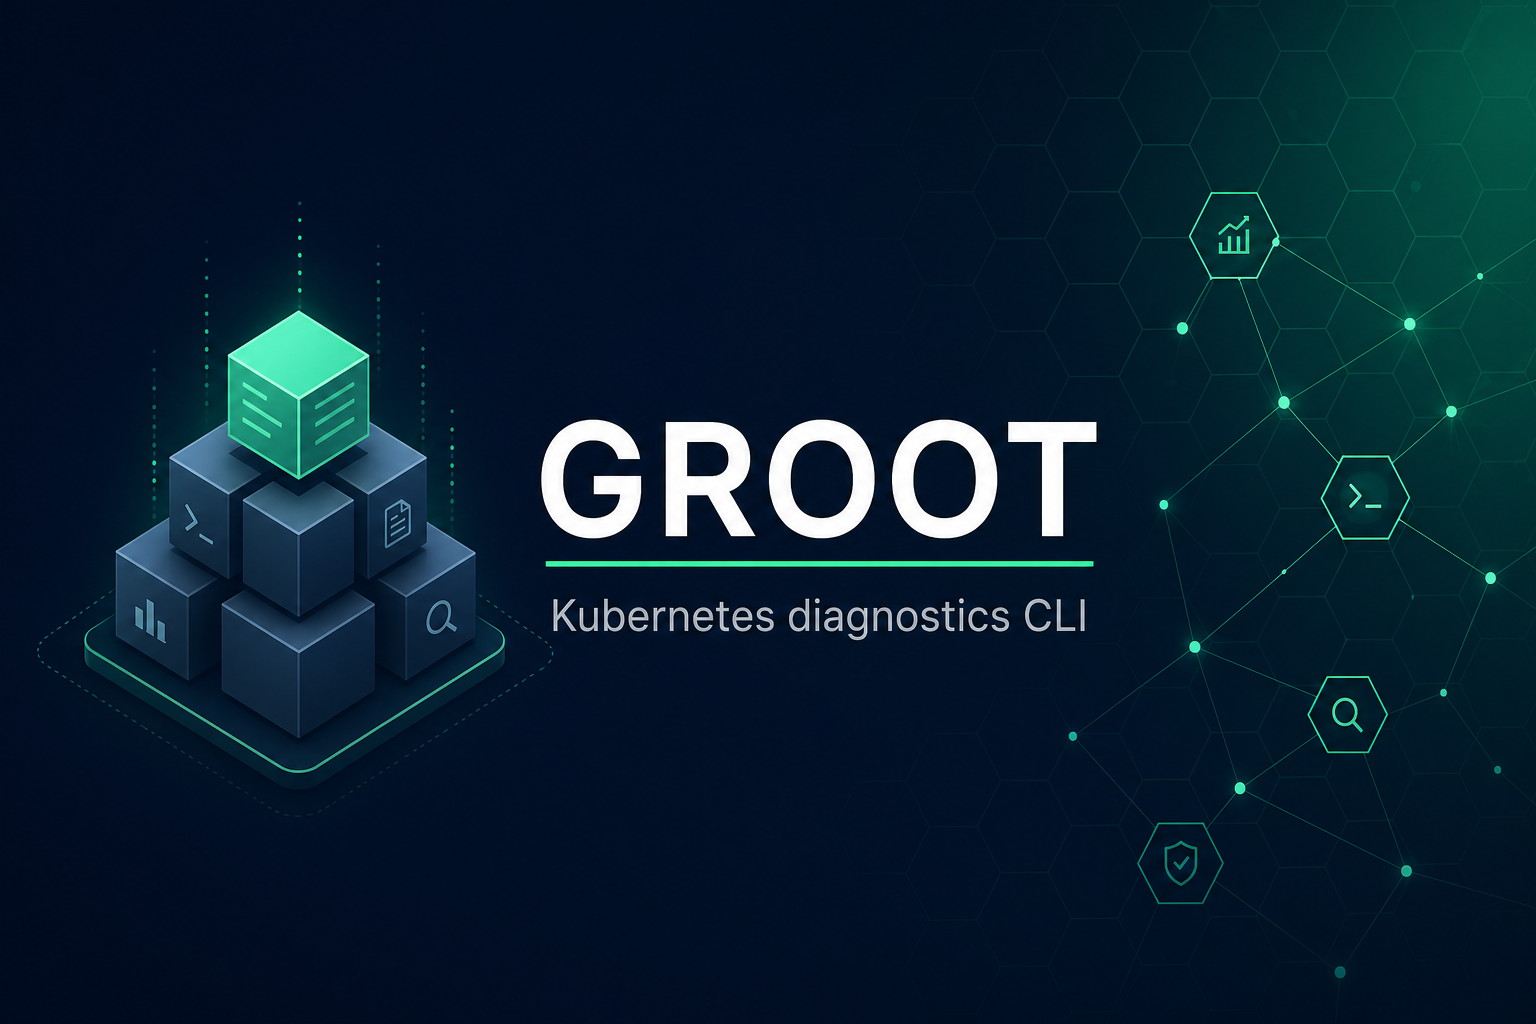
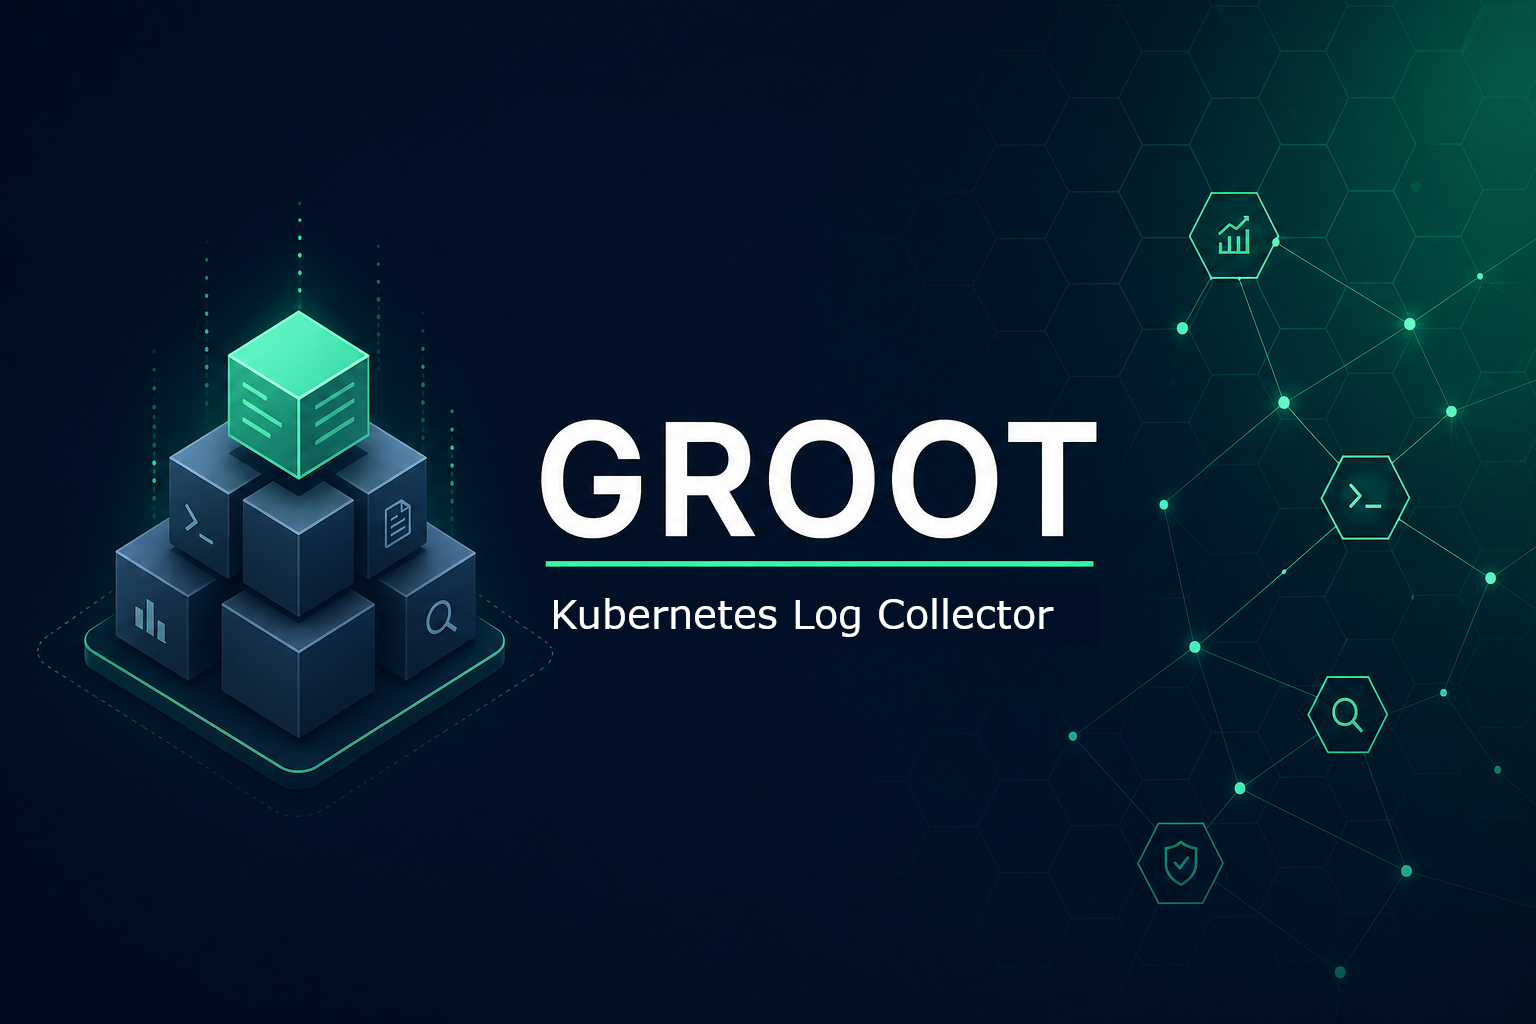
docs: reposition as log collector; refresh ROADMAP pre-0.5.x
- README, SPEC, CLI help: read-only log/context collector (not diagnosis)
- ROADMAP: honest gaps post-0.4.x; #25 Homebrew cask (pgwd pattern)
- Hero image, gghstats badge, CHANGELOG [Unreleased]

Changed region(s): [[0.3438, 0.5938, 0.7188, 0.625]]

diff --git a/pkg/cmd/root.go b/pkg/cmd/root.go
@@ -38,8 +38,8 @@ var listJobs bool
 
 var rootCmd = &cobra.Command{
 	Use:   "groot",
-	Short: "Collect Kubernetes logs and diagnostics",
-	Long:  "Groot collects Kubernetes diagnostics using the official Go client libraries (no kubectl binary required).",
+	Short: "Collect Kubernetes logs and cluster context",
+	Long:  "Groot collects read-only Kubernetes logs, events, and selected API snapshots into one archive (client-go; no kubectl binary required).",
 	RunE: func(cmd *cobra.Command, _ []string) error {
 		if printSampleConfig {
 			// Write to stdout so shell redirects (`> file`) work. Cobra's cmd.Print uses stderr.

diff --git a/README.md b/README.md
@@ -1,16 +1,17 @@
-# GROOT — Kubernetes diagnostics CLI
+# GROOT — Kubernetes log collector CLI
 
 <a id="readme-top"></a>
 
-**☸** _Collect cluster diagnostics into one archive_
+**☸** _Collect Kubernetes logs and cluster context into one archive_
 
 [![Release](https://img.shields.io/github/v/release/hrodrig/groot?display_name=tag&label=release&logo=github)](https://github.com/hrodrig/groot/releases)
-[![Version](https://img.shields.io/badge/version-0.4.0-blue)](https://github.com/hrodrig/groot/releases)
+[![Version](https://img.shields.io/badge/version-0.4.1-blue)](https://github.com/hrodrig/groot/releases)
 [![Go](https://img.shields.io/badge/Go-1.26.4-00ADD8?logo=go)](https://go.dev/)
 [![License](https://img.shields.io/badge/license-MIT-green)](./LICENSE)
 [![pkg.go.dev](https://pkg.go.dev/badge/github.com/hrodrig/groot)](https://pkg.go.dev/github.com/hrodrig/groot)
 [![CI](https://github.com/hrodrig/groot/actions/workflows/ci.yml/badge.svg?branch=main)](https://github.com/hrodrig/groot/actions/workflows/ci.yml)
 [![Codecov](https://codecov.io/gh/hrodrig/groot/branch/main/graph/badge.svg)](https://codecov.io/gh/hrodrig/groot)
+[![gghstats clones](https://gghstats.hermesrodriguez.com/api/v1/badge/hrodrig/groot?metric=clones)](https://gghstats.hermesrodriguez.com/hrodrig/groot)
 [![Go Report Card](https://goreportcard.com/badge/github.com/hrodrig/groot)](https://goreportcard.com/report/github.com/hrodrig/groot)
 [![Article on DEV](https://img.shields.io/badge/dev.to-article-0A0A0A?logo=devdotto&logoColor=white)](https://dev.to/hrodrig/groot-one-archive-for-cluster-diagnostics-2d76)
 [![Ask DeepWiki](https://deepwiki.com/badge.svg)](https://deepwiki.com/hrodrig/groot/)
@@ -18,7 +19,7 @@
 **Repo:** [github.com/hrodrig/groot](https://github.com/hrodrig/groot) · **Releases:** [GitHub Releases](https://github.com/hrodrig/groot/releases) · **Spec:** [docs/SPECIFICATIONS.md](docs/SPECIFICATIONS.md) · **Changelog:** [CHANGELOG.md](CHANGELOG.md) · **Roadmap:** [docs/ROADMAP.md](docs/ROADMAP.md) · **Article:** [GROOT on DEV — one archive for cluster diagnostics](https://dev.to/hrodrig/groot-one-archive-for-cluster-diagnostics-2d76)
 
 <p align="center">
-  <img src="docs/assets/groot-readme-hero.png" alt="GROOT — Kubernetes diagnostics CLI" width="100%" />
+  <img src="docs/assets/groot-readme-hero.png" alt="GROOT — Kubernetes log collector CLI" width="100%" />
 </p>
 
 <p align="center">
@@ -27,9 +28,9 @@
 
 <p align="center"><sub>Terminal demo recorded with <a href="https://github.com/charmbracelet/vhs">VHS</a>. Regenerate: <code>make install && bash -c "vhs docs/demo.tape"</code> · <a href="docs/demo.tape"><code>docs/demo.tape</code></a></sub></p>
 
-GROOT is a **Kubernetes cluster diagnostics** Go CLI: a single **`groot collect`** gathers nodes, **events**, **pod logs**, workload and control-plane context, **describe**-style material, and more—**in parallel**, with **YAML-driven** configuration. It produces one **clean `.tar.gz`** you can hand to teammates, attach to tickets, or retain for compliance.
+GROOT is a **read-only Kubernetes log and context collector**: a single **`groot collect`** pulls **pod logs**, control-plane logs, **events**, and selected API snapshots—in parallel, from YAML—and packs them into one **`.tar.gz`**. It does **not** analyze the cluster or render a diagnosis; it **archives evidence** you can attach to tickets, hand to teammates, or retain for compliance.
 
-That workflow is aimed at **incident response** and **troubleshooting**, and at **root cause analysis (RCA)**: one reproducible bundle replaces scattered `kubectl` copy-paste, so you can reconstruct *what the cluster looked like* when things failed and shorten postmortems.
+That workflow supports **incident response**, **troubleshooting**, and **root cause analysis (RCA)**: one reproducible bundle replaces scattered `kubectl` copy-paste, so you can reconstruct *what the cluster looked like* when you ran collect and shorten postmortems.
 
 ## Table of contents
 
@@ -434,7 +435,7 @@ Workload filter behavior (`collection.targets`):
 
 `pod_logs_since` and **`collect --since`** (pod logs only):
 
-- applies **`--since`** / time-window filtering to workload and control-plane **pod log** jobs; other diagnostics are unchanged
+- applies **`--since`** / time-window filtering to workload and control-plane **pod log** jobs; other capture jobs are unchanged
 - in YAML or env, a **string of digits only** is interpreted as **whole hours** (`"24"` → `24h`); otherwise the value must parse as a Go duration (`24h`, `45m`, …)
 - **`groot collect --since=…`** overrides `collection.pod_logs_since` for that run when the flag is set
 

diff --git a/docs/ROADMAP.md b/docs/ROADMAP.md
@@ -17,18 +17,18 @@ Public releases start at **v0.1.3** (early CLI and packaging). Section headings 
 
 ### Strategic direction
 
-GROOT is a **read-only diagnostics CLI**: one **`groot collect`** produces a **timestamped `.tar.gz`** for incident response and RCA. The runtime path is **client-go** end-to-end (no `kubectl` binary). Configuration is **YAML + env**; optional **notify** fan-out fires after a **successful** collect.
+GROOT is a **read-only log and context collector**: one **`groot collect`** produces a **timestamped `.tar.gz`** for incident response and RCA. The runtime path is **client-go** end-to-end (no `kubectl` binary). Configuration is **YAML + env**; optional **notify** fan-out fires after a **successful** collect.
 
 **Target architecture:** deepen **collector fidelity** (more resources, clearer archive layout, optional in-cluster scheduling) while keeping the **single-command** UX. **Notifications** stay operator-friendly (webhooks first); richer templates and failure alerts are later bands. **Distribution** should match how SREs install tools: Linux packages, container, and **Homebrew**—without turning GROOT into a long-running controller.
 
 **Honest gaps today:**
 
 - **`k8srunner`** `extra_kubectl` is intentionally narrow (`get`/`describe`/`top` subsets; no `explain`/`wait`).
-- **`file_prefix`** is reserved in config but **not** used in capture directory or archive names yet.
-- **E2E kind** exists locally (`make test-e2e-kind`) but is **not** in default CI (Docker + time).
-- **No Helm chart / CronJob** manifest for scheduled in-cluster collection.
-- **Generic webhooks** send one JSON string field only—no templates, HMAC, or non-JSON bodies.
-- **Collected archives may contain secrets**; there is no built-in redaction scrub pass.
+- **No Helm chart / CronJob** manifest for scheduled in-cluster collection (**0.5.x #22**).
+- **Generic webhooks** send one JSON string field only—no templates, HMAC, or non-JSON bodies (**0.5.x #20**).
+- **Notify** runs only after a **successful** collect—no alert on abort or high partial-failure rate (**0.5.x #19**).
+- **Collected archives may contain secrets**; there is no built-in redaction scrub pass (**0.5.x #23**).
+- **Release artifact basenames** use `groot_0.4.1_*` (GoReleaser `{{ .Version }}`); **pgwd** / **kzero** use `*_v0.x.y_*` (`{{ .Tag }}`). Align before **0.6.x #25** so Homebrew cask URLs match the family convention.
 
 **Completed bands:** **0.1.x–0.2.x** (initial CLI, packaging, notifications, container). **0.3.x** (client-go collector, RCA tables, kind E2E harness, security hardening through **v0.3.2**). **0.4.x** (archive manifest, `file_prefix` naming, `--list-jobs`, broader `extra_kubectl`, Job/CronJob targets, kind E2E in CI) — see [plan-0.4.0.md](plan-0.4.0.md).
 
@@ -119,7 +119,7 @@ Make GROOT easier to run on a schedule inside the cluster and more honest when c
 
 | # | Item | Status |
 |---|------|--------|
-| 25 | **Homebrew tap** ([homebrew-groot](https://github.com/hrodrig/homebrew-groot)) formula synced with GoReleaser **`.tar.gz`** / version. | Pending |
+| 25 | **Homebrew cask tap** ([homebrew-groot](https://github.com/hrodrig/homebrew-groot)): `homebrew_casks` in GoReleaser (same pattern as [pgwd](https://github.com/hrodrig/homebrew-pgwd)), `HOMEBREW_TAP_TOKEN` in CI, release **`.tar.gz`** basenames aligned to `groot_vX.Y.Z_*` (`{{ .Tag }}` like pgwd/kzero). | Pending |
 | 26 | **SBOM** generation in GoReleaser (Syft or equivalent). | Pending |
 | 27 | **Cosign** image/binary signing in release pipeline. | Pending |
 | 28 | **Optional post-collect upload**: S3/GCS-compatible push of `.tar.gz` (credentials via env; no long-lived keys in config). | Pending |

diff --git a/docs/SPECIFICATIONS.md b/docs/SPECIFICATIONS.md
@@ -2,7 +2,7 @@
 
 ## 1. Purpose
 
-`groot` is a Go CLI that collects **read-only** Kubernetes diagnostics into a single **`.tar.gz`** archive for incident response, troubleshooting, and root cause analysis (RCA).
+`groot` is a Go CLI that **collects read-only Kubernetes logs and cluster context** into a single **`.tar.gz`** archive for incident response, troubleshooting, and root cause analysis (RCA). It does not analyze the cluster or produce a diagnosis.
 
 This document is the source of truth for **observable behavior** and test expectations. Planned work and gaps live in **[ROADMAP.md](ROADMAP.md)**; shipped releases in **[CHANGELOG.md](../CHANGELOG.md)**.
 
@@ -28,10 +28,10 @@ This document is the source of truth for **observable behavior** and test expect
 
 ### Design principles
 
-- **Read-only diagnostics only**—`collection.extra_kubectl` is allowlisted at config load and implemented via **`pkg/k8srunner`** (argv slices, no shell).
+- **Read-only collection only**—`collection.extra_kubectl` is allowlisted at config load and implemented via **`pkg/k8srunner`** (argv slices, no shell).
 - **Fail the CLI** on config errors, Kubernetes client init failure, archive failure, or **notify delivery failure** after collect.
 - **Partial job failures** inside collect are counted in `Summary` but do **not** fail the command; failures are logged (and included in notify summary text).
-- **Honest config**: fields reserved for future use (e.g. **`file_prefix`**) are documented; behavior matches code today.
+- **Honest config**: reserved or partial fields are documented; behavior matches code and this spec.
 
 ## 3. CLI contract
 

diff --git a/docs/badges.md b/docs/badges.md
@@ -6,6 +6,7 @@ This page explains the badges shown at the top of the [project README](../README
 - **version** — latest **git tag** on the repo. **release** and **version** can differ if a tag was pushed without publishing a Release yet; install artifacts are still on the [tags](https://github.com/hrodrig/groot/tags) / release page for that tag.
 - **`VERSION` file** — in the default branch, the [`VERSION`](../VERSION) file is the source of truth for the next release number.
 - **Codecov** — merged test coverage from the CI upload on **`main`** (see [Codecov](https://codecov.io/gh/hrodrig/groot)).
+- **gghstats clones** — clone count for this repo from [gghstats](https://gghstats.hermesrodriguez.com/hrodrig/groot).
 - **dev.to** — companion walkthrough on [DEV Community](https://dev.to/).
 - **Ask DeepWiki** — [DeepWiki](https://deepwiki.com/hrodrig/groot/) documentation index for this repository.
 

diff --git a/CHANGELOG.md b/CHANGELOG.md
@@ -7,6 +7,11 @@ and this project adheres to [Semantic Versioning](https://semver.org/spec/v2.0.0
 
 ## [Unreleased]
 
+### Changed
+
+- **Positioning copy**: README, SPEC, ROADMAP, and CLI `Short`/`Long` describe GROOT as a **read-only log and context collector** (not a diagnostics/diagnosis tool).
+- **ROADMAP**: refresh honest gaps for post-**0.4.x** reality; **#25** documents **Homebrew cask** + pgwd/kzero release basename convention.
+
 ## [0.4.1] - 2026-06-06
 
 ### Fixed
